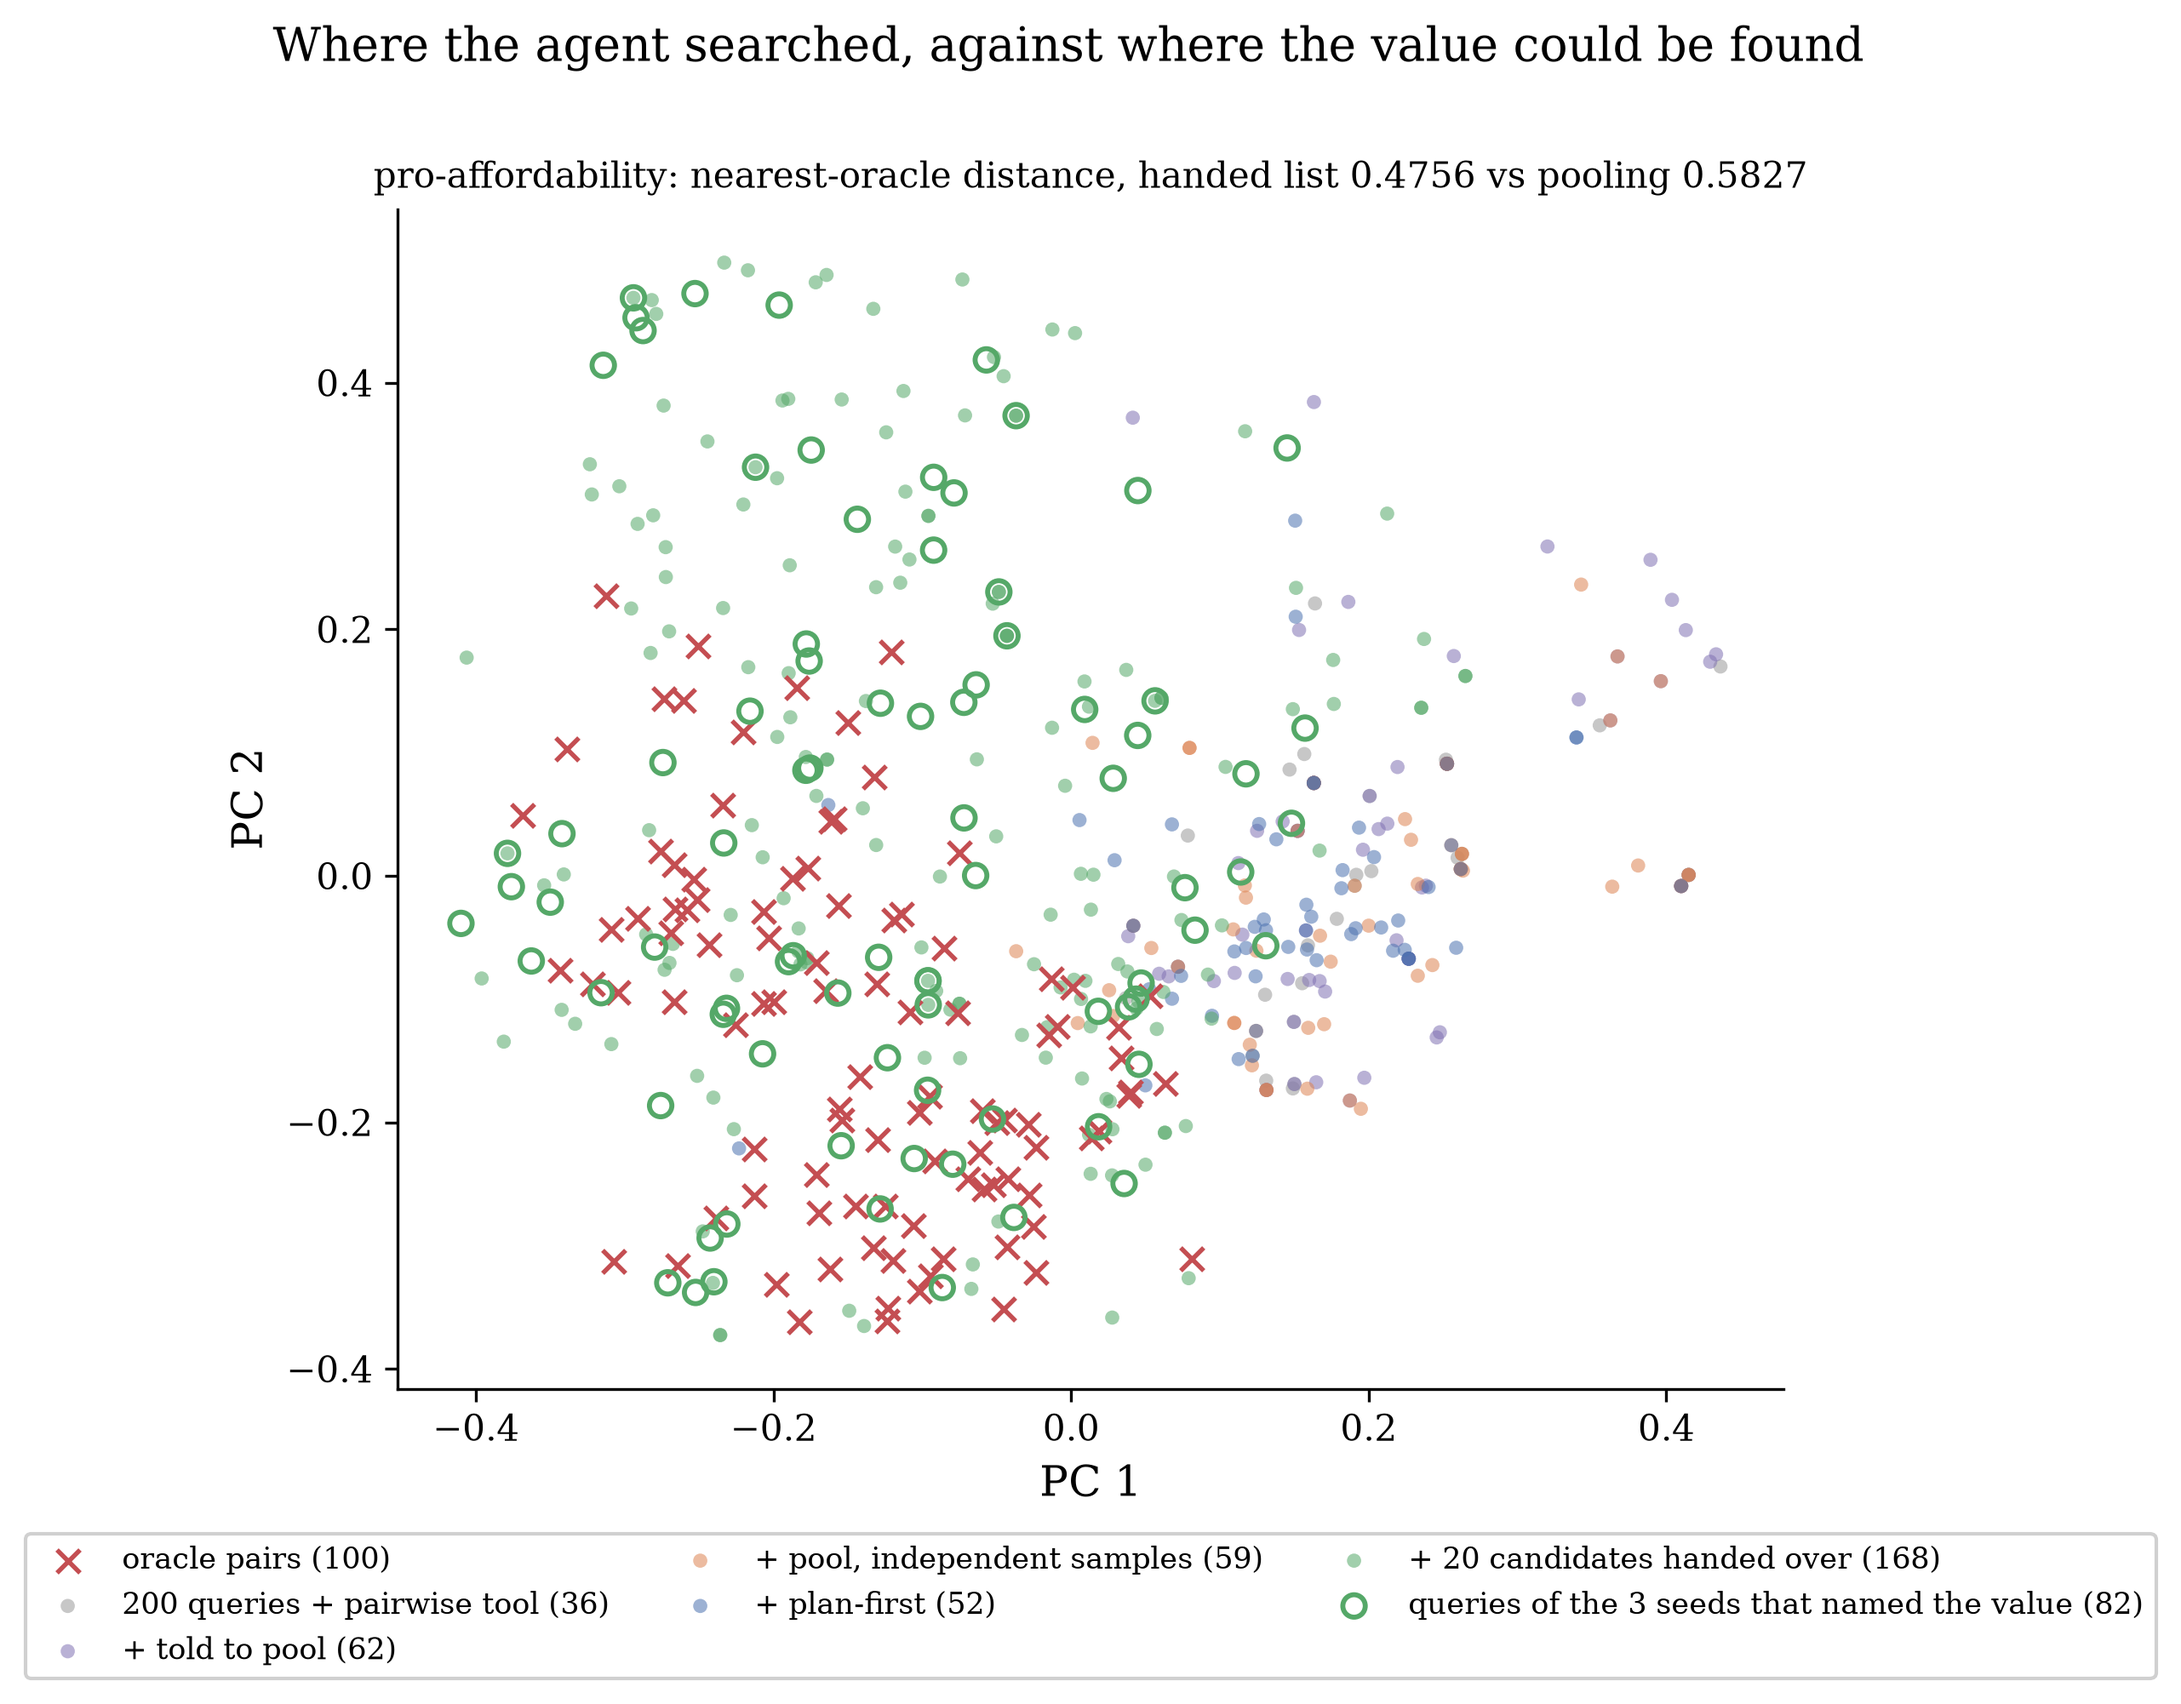
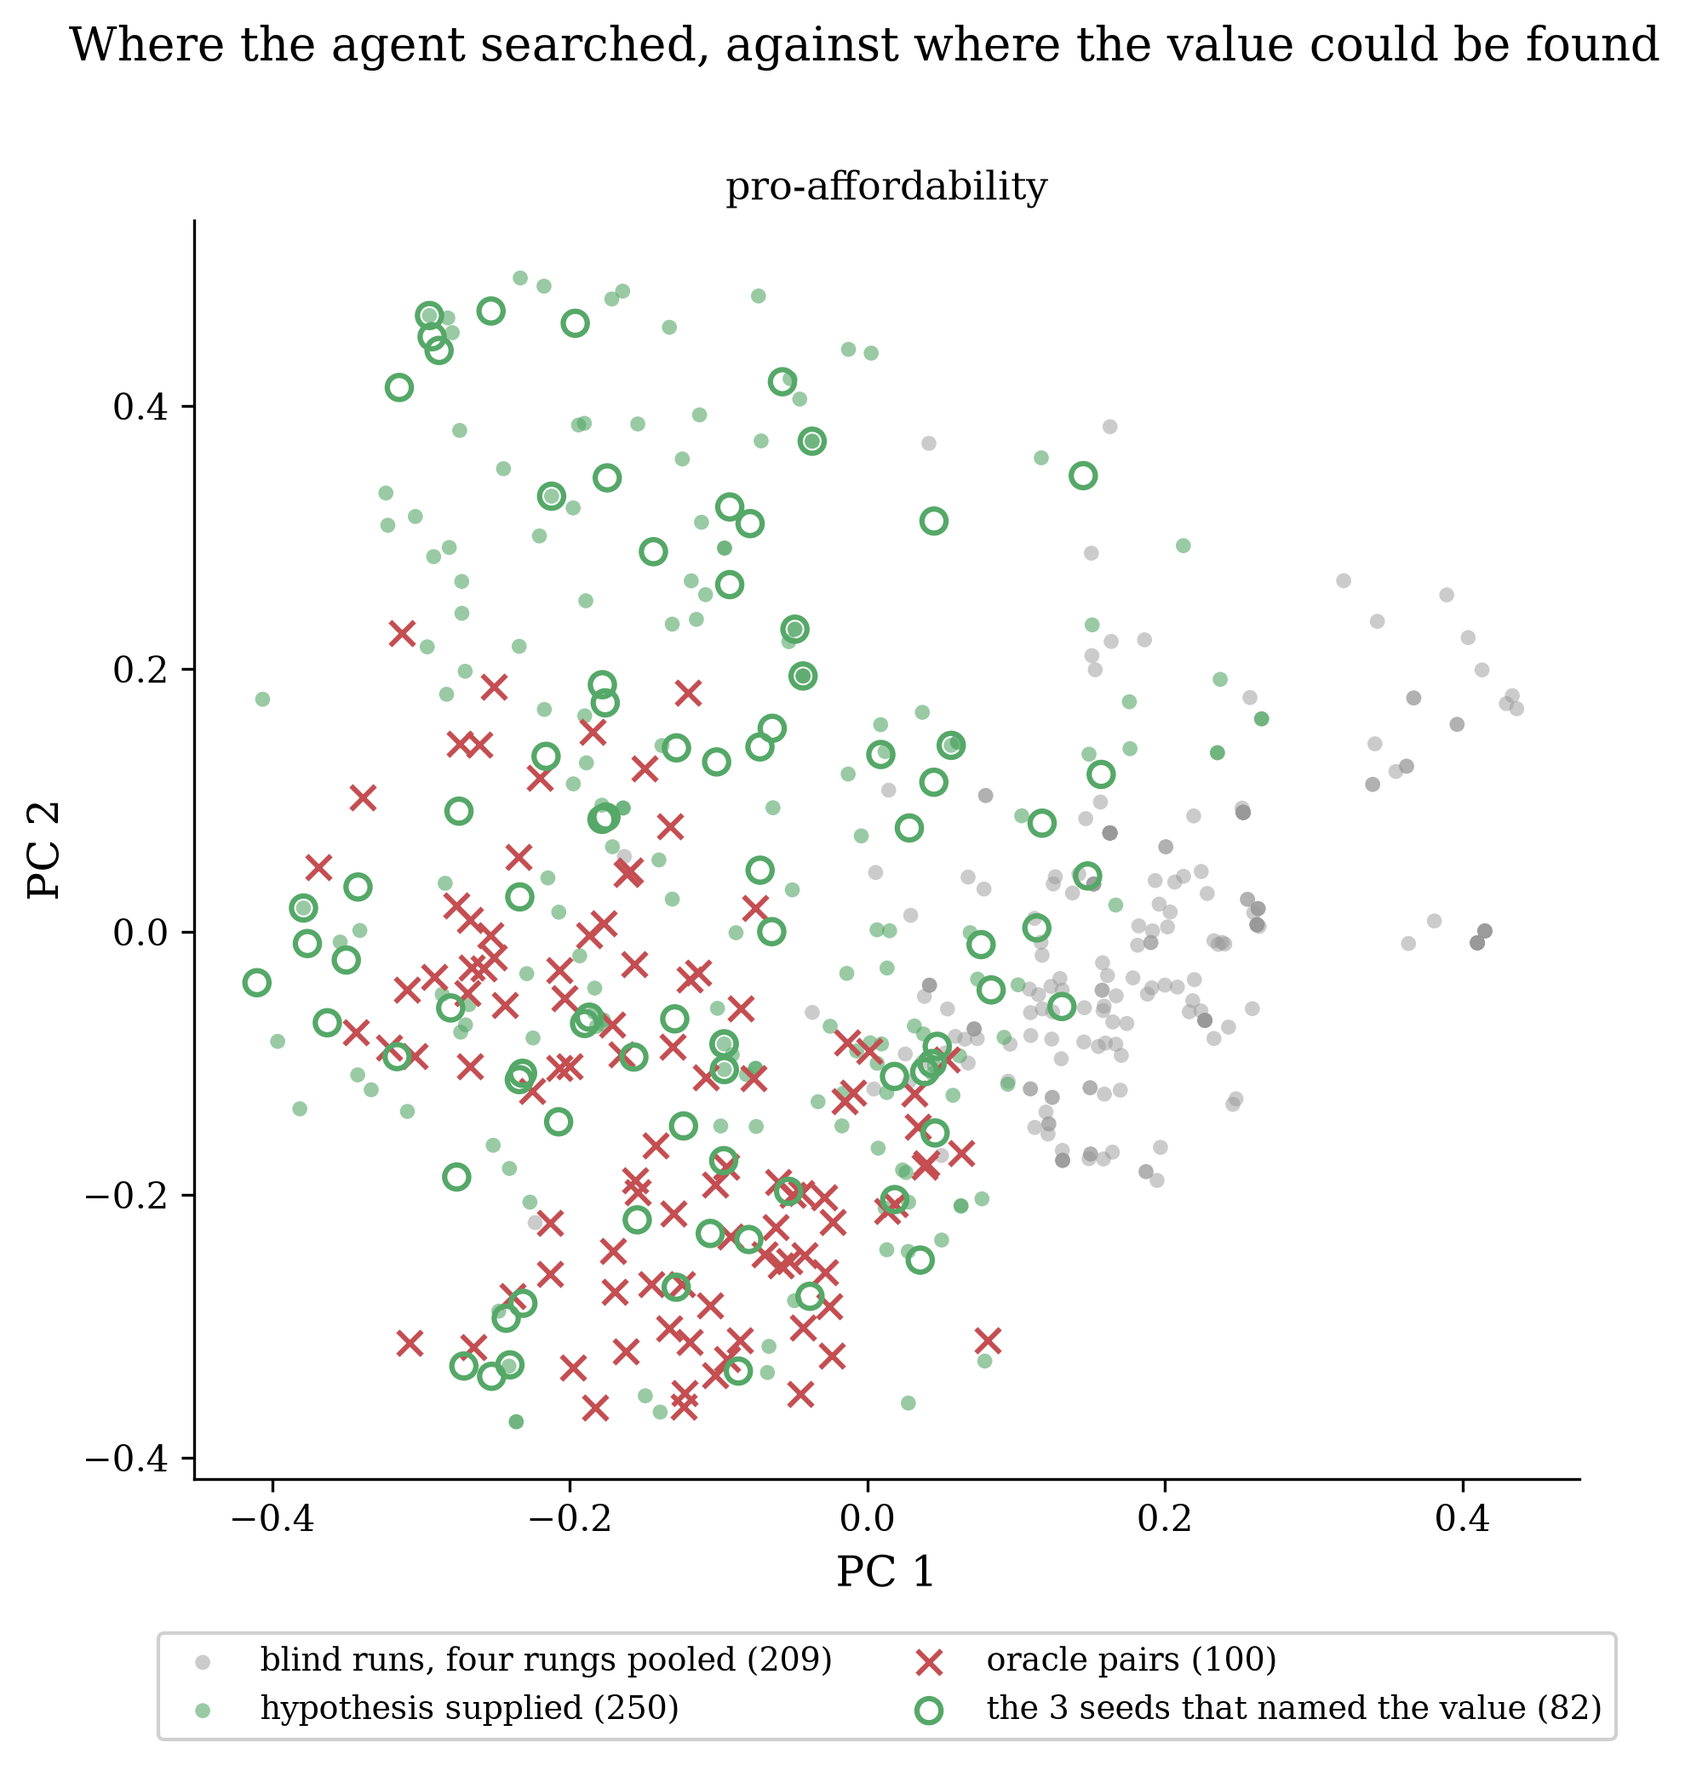
Revise the query-space map and add its second panel

diff --git a/scripts/plot_query_space.py b/scripts/plot_query_space.py
@@ -121,6 +121,7 @@ def main():
                     "mean_nearest_oracle_distance": round(float(distance[idx].mean()), 4),
                 }
         handed = [i for i, q in enumerate(mine) if q["rung"] == "+ 20 candidates handed over"]
+        blind = [i for i, q in enumerate(mine) if q["rung"] != "+ 20 candidates handed over"]
         correct = [i for i in handed if mine[i]["correct"]]
         wrong = [i for i in handed if not mine[i]["correct"]]
         separation[value] = {
@@ -134,6 +135,14 @@ def main():
                 "n_seeds": len({mine[i]["seed_id"] for i in wrong}),
                 "n_queries": len(wrong),
                 "mean_nearest_oracle_distance": round(float(distance[wrong].mean()), 4) if wrong else None,
+            },
+            "blind_rungs_pooled": {
+                "n_queries": len(blind),
+                "mean_nearest_oracle_distance": round(float(distance[blind].mean()), 4),
+            },
+            "handed_list_all_seeds": {
+                "n_queries": len(handed),
+                "mean_nearest_oracle_distance": round(float(distance[handed].mean()), 4),
             },
             "oracle_to_nearest_other_oracle": round(float(oracle_self_distance(oracle_vec).mean()), 4),
         }
@@ -152,11 +161,15 @@ def main():
         _, _, vt = np.linalg.svd(centred, full_matrices=False)
         coords = centred @ vt[:2].T
         agent_xy, oracle_xy = coords[: len(mine)], coords[len(mine) :]
-        panels[value] = (mine, agent_xy, oracle_xy, per_rung, correct)
+        panels[value] = (mine, agent_xy, oracle_xy, per_rung, correct, handed, blind)
 
     assert panels, "no value passed the separation gate, so there is no admissible figure"
+    dropped = [v for v in VALUES if not separation[v]["gate_passed"]]
+    if dropped:
+        LOGGER.info(f"panels dropped by the gate: {dropped}")
+
     fig, axes = plt.subplots(1, len(panels), figsize=(7.0 * len(panels), 6.0), squeeze=False)
-    for ax, (value, (mine, agent_xy, oracle_xy, per_rung, correct)) in zip(axes[0], panels.items()):
+    for ax, (value, (mine, agent_xy, oracle_xy, per_rung, correct, handed, blind)) in zip(axes[0], panels.items()):
         ax.scatter(
             oracle_xy[:, 0],
             oracle_xy[:, 1],
@@ -190,28 +203,83 @@ def main():
                 label=f"queries of the {len({mine[i]['seed_id'] for i in correct})} seeds that named the value ({len(correct)})",
                 zorder=4,
             )
-        ax.set_title(
-            f"{value}: nearest-oracle distance, handed list {per_rung.get('+ 20 candidates handed over', {}).get('mean_nearest_oracle_distance', '—')} "
-            f"vs pooling {per_rung.get('+ told to pool', {}).get('mean_nearest_oracle_distance', '—')}",
-            fontsize=10,
-        )
+        ax.set_title(value, fontsize=10)
         ax.set_xlabel("PC 1")
         ax.set_ylabel("PC 2")
         ax.legend(fontsize=8.5, framealpha=0.92, loc="upper center", bbox_to_anchor=(0.5, -0.11), ncol=3)
-    dropped = [v for v in VALUES if not separation[v]["gate_passed"]]
     fig.suptitle("Where the agent searched, against where the value could be found", y=1.0)
-    if dropped:
-        LOGGER.info(f"panels dropped by the gate: {dropped}")
+    paths = save(fig, "d5_query_space_map", output_dir)
+
+    # three series: the same points, with the four unaided rungs pooled into one grey so the shape reads at once
+    fig, axes = plt.subplots(1, len(panels), figsize=(7.0 * len(panels), 6.4), squeeze=False)
+    for ax, (value, (mine, agent_xy, oracle_xy, per_rung, correct, handed, blind)) in zip(axes[0], panels.items()):
+        handed_wrong = [i for i in handed if i not in set(correct)]
+        ax.scatter(
+            agent_xy[blind, 0],
+            agent_xy[blind, 1],
+            s=18,
+            alpha=0.5,
+            color=GREY,
+            edgecolor="none",
+            label=f"blind runs, four rungs pooled ({len(blind)})",
+            zorder=2,
+        )
+        ax.scatter(
+            agent_xy[handed_wrong, 0],
+            agent_xy[handed_wrong, 1],
+            s=18,
+            alpha=0.6,
+            color=PALETTE[2],
+            edgecolor="none",
+            label=f"hypothesis supplied ({len(handed)})",
+            zorder=3,
+        )
+        ax.scatter(
+            oracle_xy[:, 0],
+            oracle_xy[:, 1],
+            marker="x",
+            s=46,
+            color=PALETTE[3],
+            linewidths=1.4,
+            label="oracle pairs (100)",
+            zorder=4,
+        )
+        if correct:
+            ax.scatter(
+                agent_xy[correct, 0],
+                agent_xy[correct, 1],
+                s=46,
+                facecolor="none",
+                edgecolor=PALETTE[2],
+                linewidths=1.5,
+                label=f"the {len({mine[i]['seed_id'] for i in correct})} seeds that named the value ({len(correct)})",
+                zorder=5,
+            )
+        ax.set_title(value, fontsize=11)
+        ax.set_xlabel("PC 1")
+        ax.set_ylabel("PC 2")
+        ax.legend(fontsize=9, framealpha=0.92, loc="upper center", bbox_to_anchor=(0.5, -0.11), ncol=2)
+    fig.suptitle("Where the agent searched, against where the value could be found", y=1.0)
+    paths += save(fig, "d6_query_space_map", output_dir)
 
     (output_dir / "query_space_separation.json").write_text(json.dumps(separation, indent=2))
     paths = save(fig, "d5_query_space_map", output_dir)
     print(f"Separation saved to {output_dir / 'query_space_separation.json'}")
-    print(f"Figure saved to {paths[0]}")
+    for path in paths:
+        if path.suffix == ".png":
+            print(f"Figure saved to {path}")
+    print(
+        f"\nCaption facts: embedder {config.embedder}; PCA, 2 components, per value; distances are mean cosine "
+        "distance to the nearest oracle pair in the full embedding space."
+    )
     for value, s in separation.items():
         print(f"\n{value}: mean cosine distance to nearest oracle pair, full embedding space")
         for name, cell in s["per_rung"].items():
             print(f"  {name:32s} {cell['mean_nearest_oracle_distance']:.4f}  (n={cell['n_queries']})")
+        b, h = s["blind_rungs_pooled"], s["handed_list_all_seeds"]
         c, w = s["handed_list_correct_seeds"], s["handed_list_wrong_seeds"]
+        print(f"  blind rungs pooled               {b['mean_nearest_oracle_distance']:.4f}  (n={b['n_queries']})")
+        print(f"  hypothesis supplied, all seeds   {h['mean_nearest_oracle_distance']:.4f}  (n={h['n_queries']})")
         print(
             f"  handed list, correct seeds       {c['mean_nearest_oracle_distance']}  ({c['n_seeds']} seeds, n={c['n_queries']})"
         )

diff --git a/research_log.md b/research_log.md
@@ -396,4 +396,4 @@ uv run -m scripts.run_query_composition --output_dir results/tables/260911_compo
 **Result.** With all-MiniLM-L6-v2 and cosine distance to the nearest oracle pair in the full 384-d space, pro-affordability passes the pre-registered gate: the four lower rungs sit at 0.571 to 0.614 from the oracle set, the handed-list rung at 0.476, and within that rung the three seeds that named the value at 0.450 against 0.488 for the six that did not; pro-novelty fails the gate, the handed-list rung at 0.565 against 0.548 to 0.574 for the lower rungs, so its panel is dropped, and the reason is that the agent's default comparisons already look like novelty's oracle pairs, which are new-against-old contrasts of the kind it proposes unprompted. The PCA projection is drawn only for the value that passed.
 **Command:**
 uv run -m scripts.plot_query_space --output_dir results/figures --embedder sentence-transformers/all-MiniLM-L6-v2 --model_id anthropic/claude-sonnet-5 --seed 42
-**Output:** results/figures/query_space_separation.json, results/figures/d5_query_space_map.png
+**Output:** results/figures/query_space_separation.json, results/figures/d5_query_space_map.png (all rungs), results/figures/d6_query_space_map.png (blind rungs pooled: 0.590, hypothesis supplied 0.476, successful seeds 0.450)
